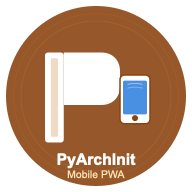
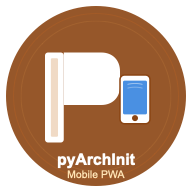
Fix branding: PyArchInit → pyArchInit
- Corrected logo text from PyArchInit to pyArchInit
- Updated manifest.json name and short_name
- Fixed all README occurrences to use correct capitalization
- Regenerated PNG icons from updated SVG

Changed region(s): [[0.2812, 0.7812, 0.7188, 0.875]]

diff --git a/README.md b/README.md
@@ -1,8 +1,8 @@
 <p align="center">
-  <img src="frontend/public/logo.svg" alt="PyArchInit Mobile PWA Logo" width="200"/>
+  <img src="frontend/public/logo.svg" alt="pyArchInit Mobile PWA Logo" width="200"/>
 </p>
 
-# PyArchInit Mobile PWA
+# pyArchInit Mobile PWA
 
 > Offline-first Progressive Web Application for archaeological field documentation with AI-powered audio transcription and intelligent data extraction
 
@@ -14,7 +14,7 @@
 
 ## 📱 Overview
 
-PyArchInit Mobile PWA provides archaeologists with a modern mobile interface for field documentation, seamlessly integrating with the existing [PyArchInit](https://pypi.org/project/pyarchinit/) QGIS plugin ecosystem. Record voice notes, capture photos, and leverage AI to automatically structure your archaeological data - all while working offline in remote excavation sites.
+pyArchInit Mobile PWA provides archaeologists with a modern mobile interface for field documentation, seamlessly integrating with the existing [pyArchInit](https://pypi.org/project/pyarchinit/) QGIS plugin ecosystem. Record voice notes, capture photos, and leverage AI to automatically structure your archaeological data - all while working offline in remote excavation sites.
 
 ### Key Features
 
@@ -22,7 +22,7 @@ PyArchInit Mobile PWA provides archaeologists with a modern mobile interface for
 - Voice recording with pause/resume support
 - Automatic transcription using OpenAI Whisper
 - Intelligent archaeological data extraction with Claude AI
-- Structured field mapping to PyArchInit database schema
+- Structured field mapping to pyArchInit database schema
 - Multilanguage support (Italian, English, and more)
 - Validation and editing before database insertion
 
@@ -31,7 +31,7 @@ PyArchInit Mobile PWA provides archaeologists with a modern mobile interface for
 - Automatic image processing (thumbnail 150x150, resize 800x600, original)
 - EXIF metadata extraction (GPS, date, camera model)
 - Entity-based organization (US, Tomba, Material)
-- Direct integration with PyArchInit media_table
+- Direct integration with pyArchInit media_table
 
 **⚡ Offline-First Architecture**
 - Full functionality without internet connection
@@ -39,8 +39,8 @@ PyArchInit Mobile PWA provides archaeologists with a modern mobile interface for
 - Automatic background synchronization when online
 - Conflict resolution and retry logic
 
-**🔄 PyArchInit Integration**
-- Compatible with existing PyArchInit PostgreSQL database
+**🔄 pyArchInit Integration**
+- Compatible with existing pyArchInit PostgreSQL database
 - Supports stratigraphic units (US), tombs, material inventory
 - List-of-lists format for relationships and included materials
 - Duplicate detection with merge/overwrite options
